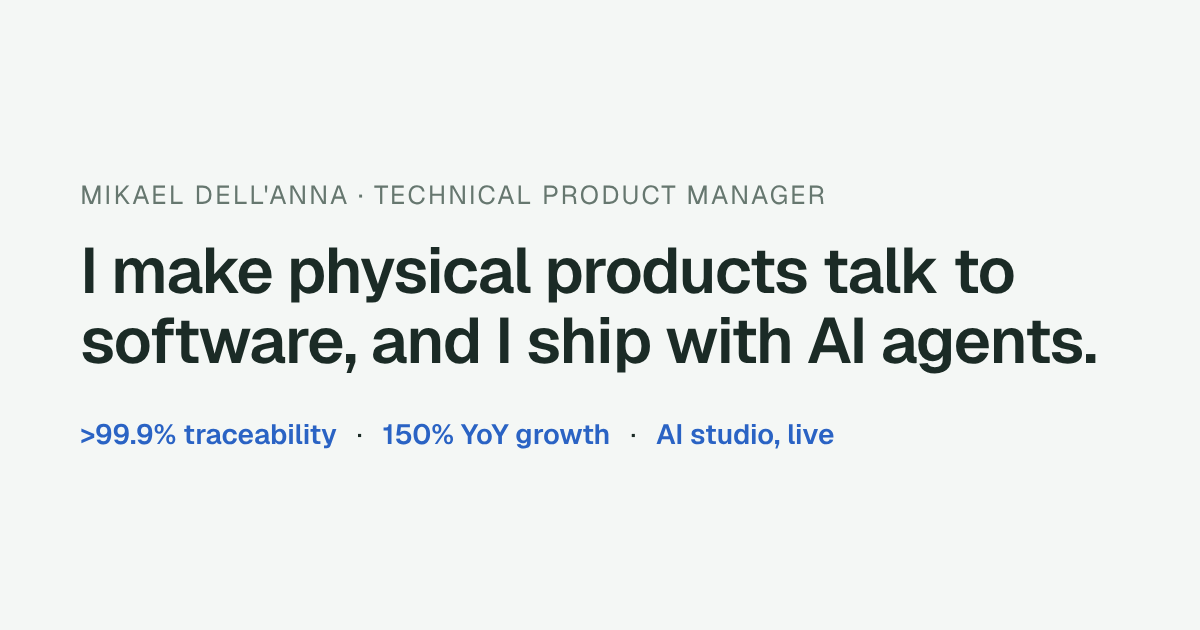
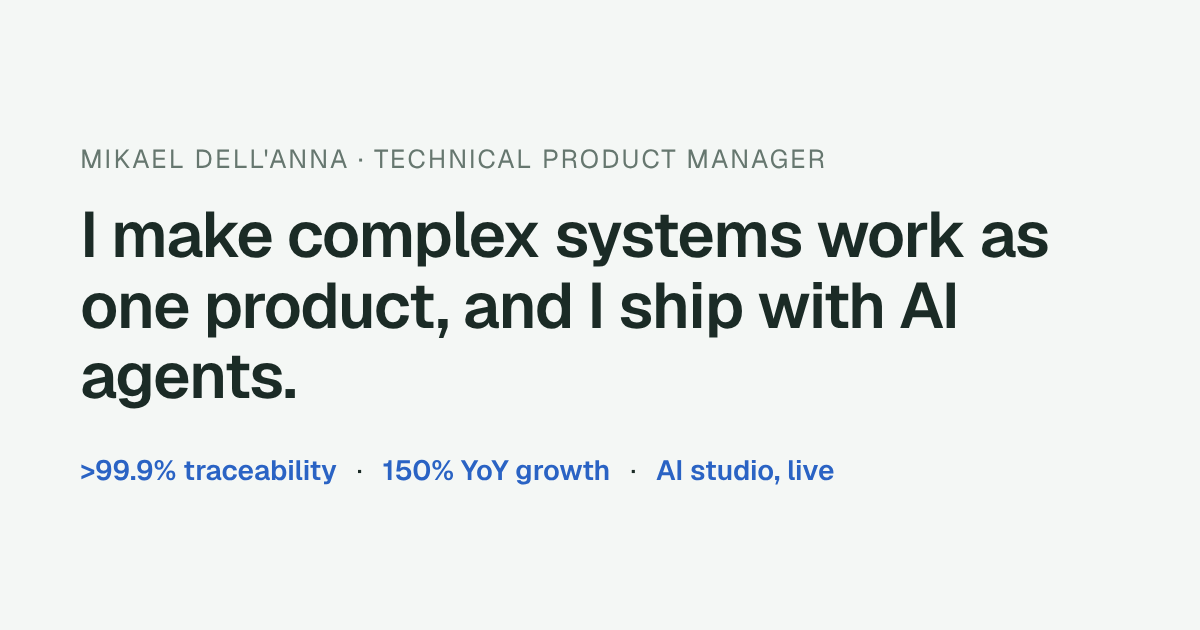
Broaden the headline beyond physical products
Claude-Session: https://claude.ai/code/session_01Dwern1jrwh8SpvGekdpsVE

Changed region(s): [[0.0617, 0.2111, 0.925, 0.7841], [0.3083, 0.6635, 0.7092, 0.7841]]

diff --git a/index.html b/index.html
@@ -37,9 +37,9 @@
 
 <main id="top">
   <section class="hero wrap">
-    <p class="eyebrow">Senior Technical Product Manager · AI, platforms and physical-digital products · Zurich</p>
-    <h1>I make physical products talk to software, and I ship with AI agents.</h1>
-    <p class="lede">I turn evidence into a funded decision, then lead engineers and vendors until it works in the real world. Lately that means putting AI to work with the guardrails a business needs.</p>
+    <p class="eyebrow">Senior Technical Product Manager · AI, platforms and data products · Zurich</p>
+    <h1>I make complex systems work as one product, and I ship with AI agents.</h1>
+    <p class="lede">I turn evidence into a funded decision, then lead engineers and vendors until it works in production. Lately that means putting AI to work with the guardrails a business needs.</p>
     <div class="cta">
       <a class="btn primary" href="#work">See what I do</a>
       <a class="btn" href="#contact">Get in touch</a>
